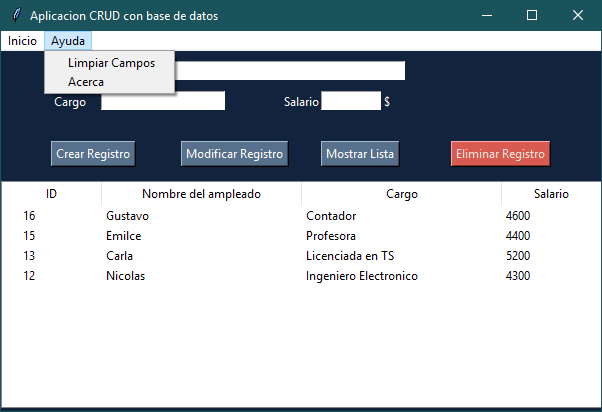
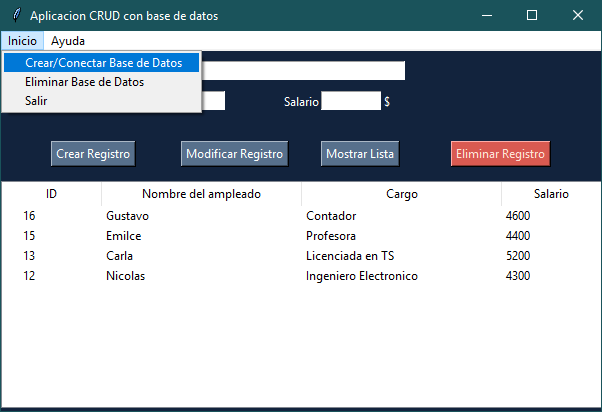
modificaciones en README

Changed region(s): [[0.0, 0.0583, 0.3588, 0.2913]]

diff --git a/README.md b/README.md
@@ -2,4 +2,7 @@
 - Sistema de registro de personal simple
 - Utilizardo para la practica de integracion entre sqlite3 y tkinter
 - No cuenta con requerimientos extra con la version de python 3.9.7
+
+___Por primera vez, la base de datos debe ser creada:___ 
+
 <p><img src = 'img.png'></p>
